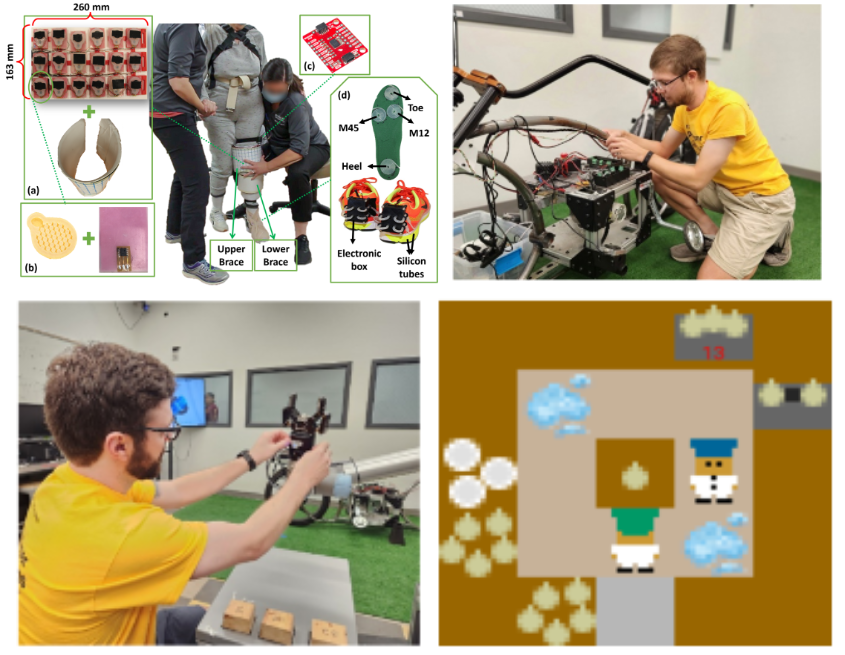
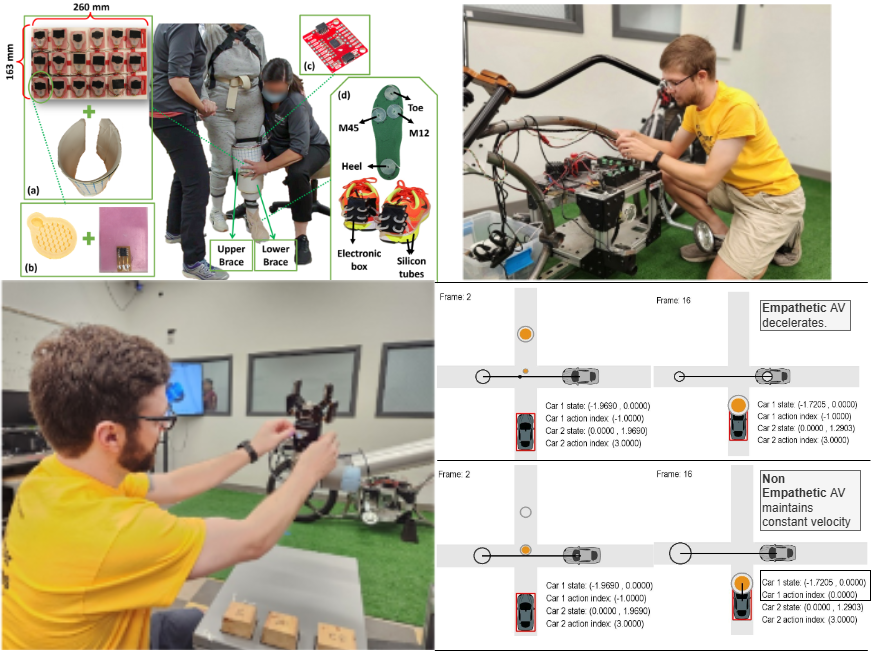
Updated news, research, team

diff --git a/_pages/research.md b/_pages/research.md
@@ -33,9 +33,9 @@ Unmanned aerial vehicles (UAVs) are popular in various applications, such as aer
 	> Software-in-the-Loop Simulation of Aerial Robots
   </summary>
   <h4>Goal</h4>
-  Make a simulation pipeline to rapidly test algorithms for aerial robots
+  Make a simulation pipeline to rapidly test algorithms for aerial robots.
   <h4>Project Description</h4>
-  Integrate controllers using ROS2 into a simulation environment with Ardupilot and PX4 flight controllers
+  Integrate controllers using ROS2 into a simulation environment with Ardupilot and PX4 flight controllers.
 </details>
 
 <details>
@@ -43,9 +43,9 @@ Unmanned aerial vehicles (UAVs) are popular in various applications, such as aer
     > Contact Based Soft Aerial Robots
   </summary>
   <h4>Goal</h4>
-To exploit the physical contact between the multi-rotor drone and its environment for better control and  manipulation and higher safety
+To exploit the physical contact between the multi-rotor drone and its environment for better control and  manipulation and higher safety.
 <h4>Project Description</h4>
-Developing various compliant multi-rotor drones for passive resilience in contacts, detecting the contacts via different sensing methods. Modeling and simulation of contacts/collisions between drones and their physical environment
+Developing various compliant multi-rotor drones for passive resilience in contacts, detecting the contacts via different sensing methods. Modeling and simulation of contacts/collisions between drones and their physical environment.
 
 </details>
 
@@ -54,7 +54,7 @@ Developing various compliant multi-rotor drones for passive resilience in contac
     > Contact Based Safe Navigation for Aerial Robots
   </summary>
 <h4>Goal</h4>
-To exploit the physical contact between the multi-rotor drone and its environment for better control, motion planning and higher safety
+To exploit the physical contact between the multi-rotor drone and its environment for better control, motion planning and higher safety.
 <h4>Project Description</h4>
 Developing a safe planning and control algorithm for collision based efficient navigation. Building a simulator for RL based planning integrating contact model and recovery controller. 
 
@@ -78,7 +78,7 @@ Soft robotics is reshaping the future of technology by developing flexible, adap
     > Soft Robotic Arm
   </summary>
 <h4>Goal</h4> 
-Modeling and control of Soft Robotic Arm 
+Modeling and control of Soft Robotic Arm.
 <h4>Project Description</h4> 
 Work on pneumatically operated soft robotic arm to test, train and implement models and develop control algorithms to achieve tasks including but not limited to trajectory tracking.
 
@@ -105,7 +105,7 @@ To evaluate the effect of exosuit during flexion and extension, surface electrom
 Designed to handle obstacles within the pipes. The large bistable actuator located in the center of the robot generates impact force, allowing it to push away or break through obstructions. The smaller bistable actuators at the head and tail can adapt to diameter changes in pipes. 
 <h4>Projects related to this work including</h4>
 Improving bistable structure (materials, fabrication methods.etc) to make it more reliable and robust
-Control the robot to perform a jumping gait inside the pipe
+Control the robot to perform a jumping gait inside the pipe.
 
 </details>
 </div>
@@ -114,7 +114,7 @@ Control the robot to perform a jumping gait inside the pipe
 ## Human-Robot Interaction
 
 <div class="col-sm-6 clearfix">
-Robots are increasingly employed in close proximity to humans. For the humans and robots to collaborate safely and efficiently, a robot needs to understand human intents, predict human actions, consider human factors, in order to optimize its own actions to complete a task with human safely, efficiently, and friendly. Here we will explore a game-theoretic framework to model the bilateral inference and decision making process between the human and robot. We are interested in both proximal and physical tasks that involve joint decision-making and joint-action between the human and robot. One major challenge is to model the human actions in highly dynamic tasks given the strong variability and uncertainty of humans. We will apply the developed algorithms in various human-robot collaboration scenarios, including autonomous vehicles, collaborative manufacturing, wearable robots, and assistive devices. For more details about how we apply the developed algorithms to autonomous vehicles, please check this page.
+Robots are increasingly employed in close proximity to humans. For the humans and robots to collaborate safely and efficiently, a robot needs to understand human intents, predict human actions, consider human factors, in order to optimize its own actions to complete a task with human safely, efficiently, and friendly. Here we will explore a game-theoretic framework to model the bilateral inference and decision making process between the human and robot. We are interested in both proximal and physical tasks that involve joint decision-making and joint-action between the human and robot. One major challenge is to model the human actions in highly dynamic tasks given the strong variability and uncertainty of humans. We will apply the developed algorithms in various human-robot collaboration scenarios, including autonomous vehicles, collaborative manufacturing, wearable robots, and assistive devices. For more details about how we apply the developed algorithms to autonomous vehicles, please check [this page](../nri.html).
 </div>
 <div class="col-sm-6 clearfix">
 ![]({{ site.url }}{{ site.baseurl }}/images/respic/hri/lab_website_all-HRI_all.png){: style="width: 95%; float: right; border: 10px"}
@@ -127,9 +127,9 @@ Robots are increasingly employed in close proximity to humans. For the humans an
     > Prospect-Theoretic Reinforcement Learning in Overcooked
   </summary>
   <h4>Goal</h4>
-Make AI better understand human preferences and decisions to make AI better able to assist
+Make AI better understand human preferences and decisions to make AI better able to assist.
 <h4>Project Description</h4>
-Integrate risk-aware cognitive models (CPT) into interactive AI planning in an Overcooked environment
+Integrate risk-aware cognitive models (CPT) into interactive AI planning in an Overcooked environment.
 
 </details>
 
@@ -143,7 +143,7 @@ for physical human-robot interactions scenario
 such as controlling assistive wearable robots. 
 <h4>Project Description</h4>
 We are aiming to integrate incomplete information
-	games With optimal control and reinforcement learning
+	games with optimal control and reinforcement learning
 to infer the human intent during HRI tasks and also model
 the possible learning process of the human while interacting
 with the robot.
@@ -157,7 +157,7 @@ with the robot.
  <h4>Goal</h4>
 Apply smart algorithms in vehicular systems to interpret and predict human actions for improved intent inference and assistance.
 <h4>Project Description</h4>
-Design and implement human models, algorithms on standard bicycles and simulated autonomous vehicles to provide advance warning of obstacles and collisions
+Design and implement human models, algorithms on standard bicycles and simulated autonomous vehicles to provide advance warning of obstacles and collisions.
 
 </details>
 </div>
